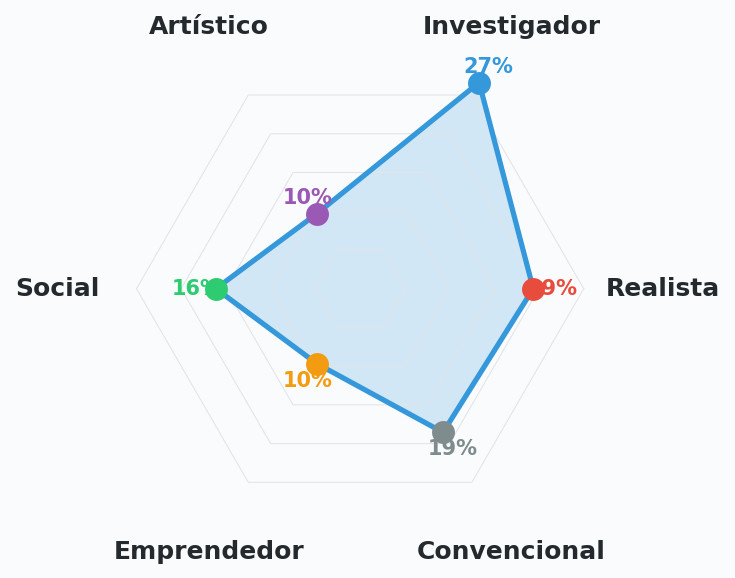
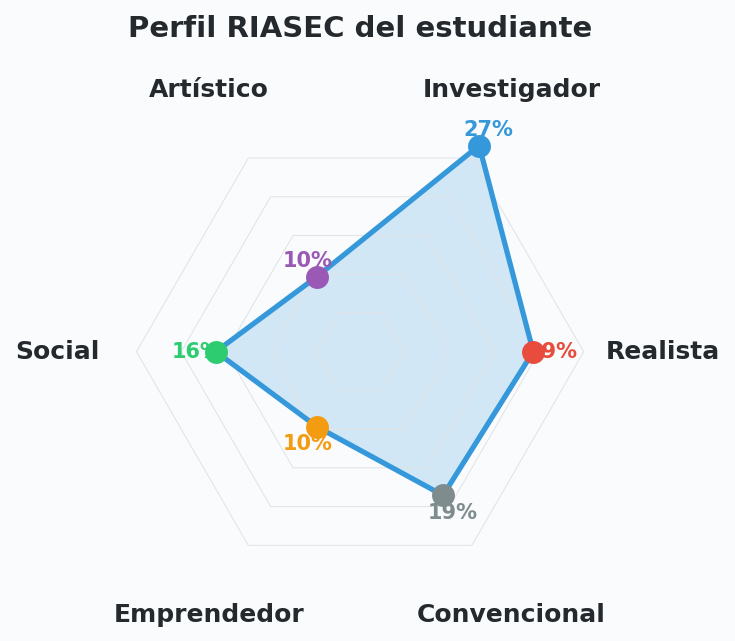
Fix README showcase layout: add radar title, fix text, enlarge images

diff --git a/scripts/generate-showcase.py b/scripts/generate-showcase.py
@@ -105,6 +105,8 @@ def plot_radar_profile():
         ax.text(angle, r_offset, pct, ha="center", va="center",
                 fontsize=10, fontweight="bold", color=colors[i])
 
+    ax.set_title("Perfil RIASEC del estudiante", fontsize=14, fontweight="bold", pad=20)
+
     plt.tight_layout()
     fig.savefig(OUT / "profile-radar.png", dpi=150, bbox_inches="tight",
                 facecolor=BG, edgecolor="none")

diff --git a/README.md b/README.md
@@ -42,12 +42,11 @@ Este es el **primer paquete que combina evaluación vocacional con datos naciona
 
 ### Perfil RIASEC adaptativo
 
-El motor bayesiano converge en el perfil del estudiante en ~12 preguntas. A la izquierda, el perfil resultante. A la derecha, cómo las probabilidades se estabilizan y la entropía cae con cada respuesta.
+El motor bayesiano converge en el perfil del estudiante en ~12 preguntas. Arriba, el perfil resultante. Abajo, cómo las probabilidades se estabilizan y la entropía cae con cada respuesta.
 
 <p align="center">
-  <img src="docs/assets/profile-radar.png" alt="Gráfico radar RIASEC" width="320">
-  &nbsp;&nbsp;&nbsp;&nbsp;
-  <img src="docs/assets/adaptive-convergence.png" alt="Convergencia adaptativa" width="520">
+  <img src="docs/assets/profile-radar.png" alt="Gráfico radar RIASEC" width="520"><br>
+  <img src="docs/assets/adaptive-convergence.png" alt="Convergencia adaptativa" width="720">
 </p>
 
 ### 17.230 programas activos por campo CINE

diff --git a/README.en.md b/README.en.md
@@ -42,12 +42,11 @@ This is the **first package combining vocational assessment with national educat
 
 ### Adaptive RIASEC profile
 
-The Bayesian engine converges on a student's profile in ~12 questions. Left: the resulting profile. Right: how probabilities stabilize and entropy drops with each answer.
+The Bayesian engine converges on a student's profile in ~12 questions. Top: the resulting profile. Bottom: how probabilities stabilize and entropy drops with each answer.
 
 <p align="center">
-  <img src="docs/assets/profile-radar.png" alt="RIASEC radar chart" width="320">
-  &nbsp;&nbsp;&nbsp;&nbsp;
-  <img src="docs/assets/adaptive-convergence.png" alt="Adaptive convergence" width="520">
+  <img src="docs/assets/profile-radar.png" alt="RIASEC radar chart" width="520"><br>
+  <img src="docs/assets/adaptive-convergence.png" alt="Adaptive convergence" width="720">
 </p>
 
 ### 17,230 active programs by CINE field
